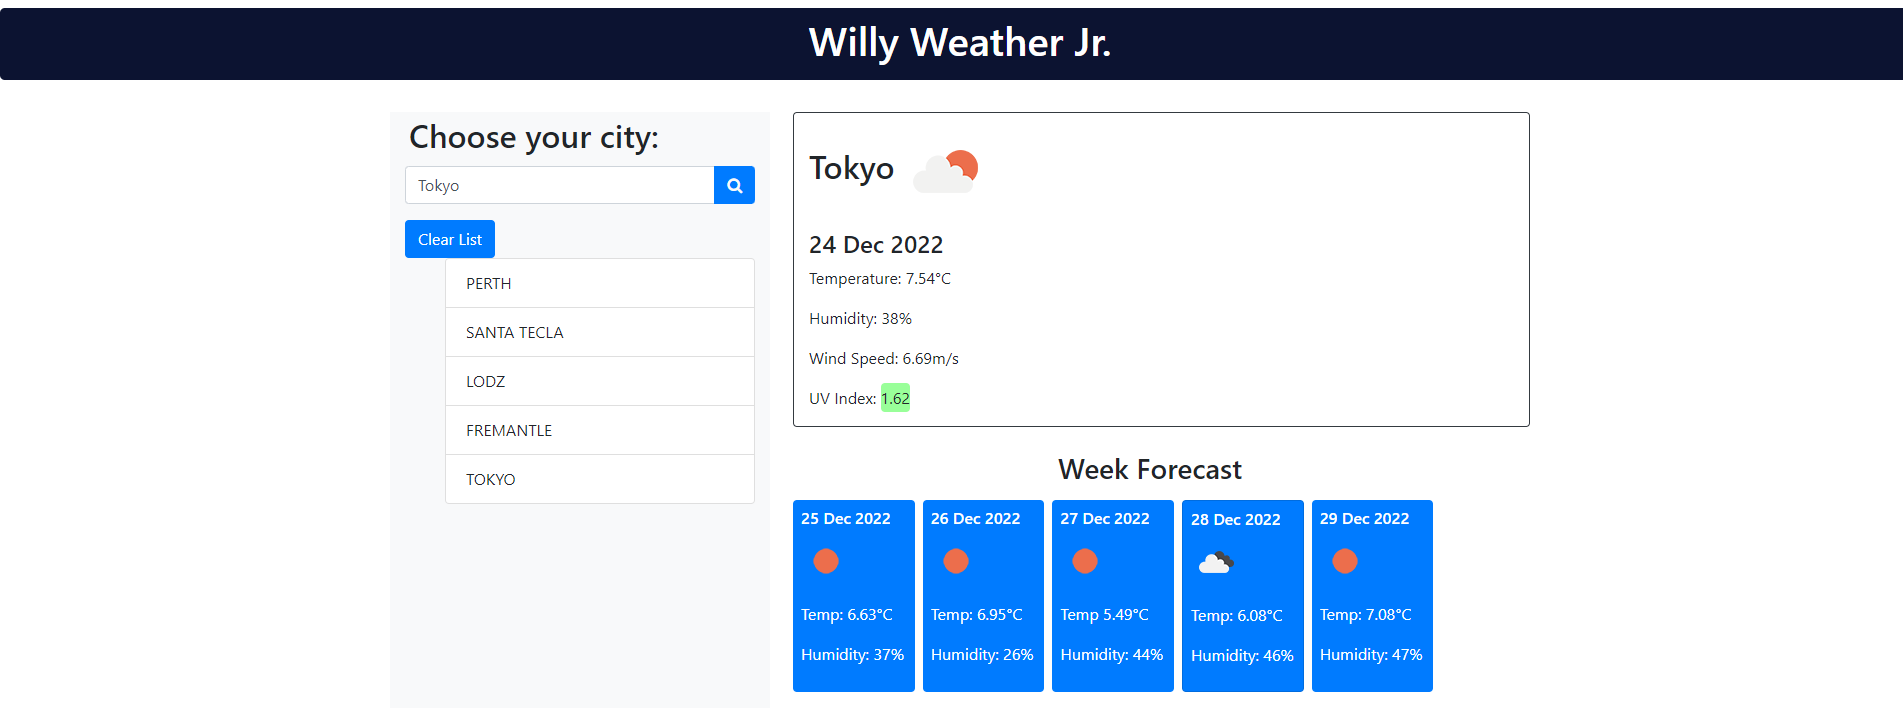
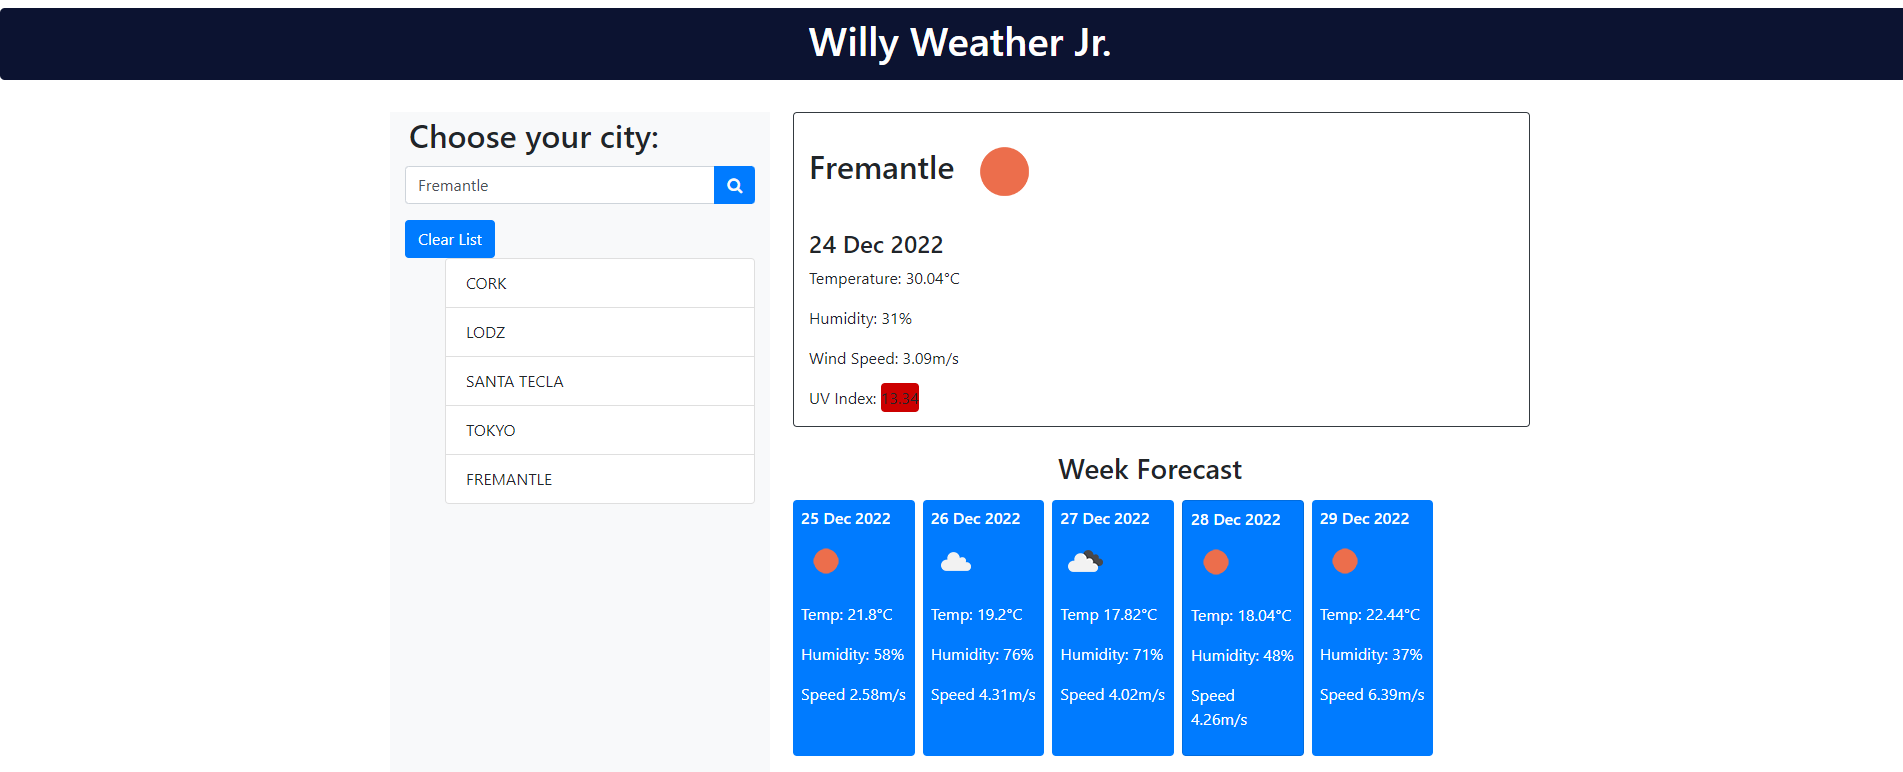
changed README ss, added speed to forecast cards, edited html

diff --git a/assets/script.js b/assets/script.js
@@ -54,7 +54,7 @@ var queryURL= "https://api.openweathermap.org/data/2.5/weather?q=" + city + metr
 
 
         //---- Record and add cities to the list ----//
-       forecastWeather(response.name); //TODO: Esto es nuevo
+       forecastWeather(response.name); 
        
        if(response.cod==200){
             sCity=JSON.parse(localStorage.getItem("cityname"))  || [];
@@ -136,13 +136,14 @@ function forecastWeather (city){
             var weatherImg="https://openweathermap.org/img/wn/"+ iconCode + ".png";
             var fcTemp= response.list[7].main.temp;
             var fcHumidity= response.list[7].main.humidity;
+            var fcWindSpeed = response.list[7].wind.speed;
         
             $("#d1").html(date);
             $("#img1").html("<img src="+ weatherImg +">");
             $("#temp1").html("  " + fcTemp+"°C");
             $("#hm1").html("  " + fcHumidity+"%");
             $("#img1").html("<img src="+ weatherImg +">");
-        
+            $("#speed1").html("  "+ fcWindSpeed + "m/s");
         
             // -- Day 2 -- //
             var date = moment(response.list[15].dt_txt).format("DD MMM YYYY"); 
@@ -150,12 +151,14 @@ function forecastWeather (city){
             var weatherImg="https://openweathermap.org/img/wn/"+ iconCode + ".png";
             var fcTemp= response.list[15].main.temp;
             var fcHumidity= response.list[15].main.humidity;
+            var fcWindSpeed = response.list[15].wind.speed;
         
             $("#d2").html(date);
             $("#img2").html("<img src="+ weatherImg +">");
             $("#temp2").html("  " + fcTemp+"°C");
             $("#hm2").html("  " + fcHumidity+"%");
             $("#img2").html("<img src="+ weatherImg +">");
+            $("#speed2").html("  "+ fcWindSpeed + "m/s");
                   
 
 
@@ -165,12 +168,14 @@ function forecastWeather (city){
             var weatherImg="https://openweathermap.org/img/wn/"+ iconCode + ".png";
             var fcTemp= response.list[23].main.temp;
             var fcHumidity= response.list[23].main.humidity;
+            var fcWindSpeed = response.list[23].wind.speed;
         
             $("#d3").html(date);
             $("#img3").html("<img src="+ weatherImg +">");
             $("#temp3").html("  " + fcTemp+"°C");
             $("#hm3").html("  " + fcHumidity+"%");
             $("#img3").html("<img src="+ weatherImg +">");
+            $("#speed3").html("  "+ fcWindSpeed + "m/s");
 
 
 
@@ -180,12 +185,14 @@ function forecastWeather (city){
             var weatherImg="https://openweathermap.org/img/wn/"+ iconCode + ".png";
             var fcTemp= response.list[31].main.temp;
             var fcHumidity= response.list[31].main.humidity;
+            var fcWindSpeed = response.list[31].wind.speed;
         
             $("#d4").html(date);
             $("#img4").html("<img src="+ weatherImg +">");
             $("#temp4").html("  " + fcTemp+"°C");
             $("#hm4").html("  " + fcHumidity+"%");
             $("#img4").html("<img src="+ weatherImg +">");
+            $("#speed4").html("  "+ fcWindSpeed + "m/s");
 
 
 
@@ -196,12 +203,14 @@ function forecastWeather (city){
             var weatherImg="https://openweathermap.org/img/wn/"+ iconCode + ".png";
             var fcTemp= response.list[39].main.temp;
             var fcHumidity= response.list[39].main.humidity;
+            var fcWindSpeed = response.list[39].wind.speed;
         
             $("#d5").html(date);
             $("#img5").html("<img src="+ weatherImg +">");
             $("#temp5").html("  " + fcTemp+"°C");
             $("#hm5").html("  " + fcHumidity+"%");
             $("#img5").html("<img src="+ weatherImg +">");
+            $("#speed5").html("  "+ fcWindSpeed + "m/s");
               
 
         
@@ -214,7 +223,7 @@ function forecastWeather (city){
 
 
 
-//--- Add City to the UL ---// TODO: Todo esto es nuevo
+//--- Add City to the UL ---// 
 function addToList(c){
     var listEl= $("<li>"+c.toUpperCase()+"</li>");
     $(listEl).attr("class","list-group-item");
@@ -229,7 +238,7 @@ function handler(c){
     currentWeather(c);
 }
 
-//--- funcion para cargar la lista de ciudades del localStorage ---//
+//--- Load Cities from localStorage ---//
 function loadCities(){
     debugger;
     let cacheCities = JSON.parse(localStorage.getItem('cityname')) || []
@@ -257,3 +266,5 @@ function clearHistory(){ // done
     document.location.reload();
 
 }
+
+

diff --git a/index.html b/index.html
@@ -68,6 +68,7 @@
                             <p id="img1"></p>
                             <p>Temp:<span id="temp1"></span></p>
                             <p>Humidity:<span id="hm1"></span></p>
+                            <p>Speed<span id="speed1"></span></p>
                         </div>
 
                         <!--Day 2-->
@@ -76,6 +77,7 @@
                             <p id="img2"></p>
                             <p>Temp:<span id="temp2"></span></p>
                             <p>Humidity:<span id="hm2"></span></p>
+                            <p>Speed<span id="speed2"></span></p>
                         </div>
 
                         <!--Day 3-->
@@ -84,6 +86,7 @@
                             <p id="img3"></p>
                             <p>Temp<span id="temp3"></span></p>
                             <p>Humidity:<span id="hm3"></span></p>
+                            <p>Speed<span id="speed3"></span></p>
                         </div>
 
                         <!--Day 4-->
@@ -92,6 +95,7 @@
                             <p id="img4"></p>
                             <p>Temp:<span id="temp4"></span></p>
                             <p>Humidity:<span id="hm4"></span></p>
+                            <p>Speed:<span id="speed4"></span></p>
                         </div>
 
                         <!--Day 5-->
@@ -100,6 +104,7 @@
                             <p id="img5"></p>
                             <p>Temp:<span id="temp5"></span></p>
                             <p>Humidity:<span id="hm5"></span></p>
+                            <p>Speed:<span id="speed5"></span></p>
                         </div>
                     </div>
                 </section>

diff --git a/assets/style.css b/assets/style.css
@@ -10,3 +10,9 @@ body {
     
     
 }
+
+li {
+
+margin-top: 10px;
+
+}
